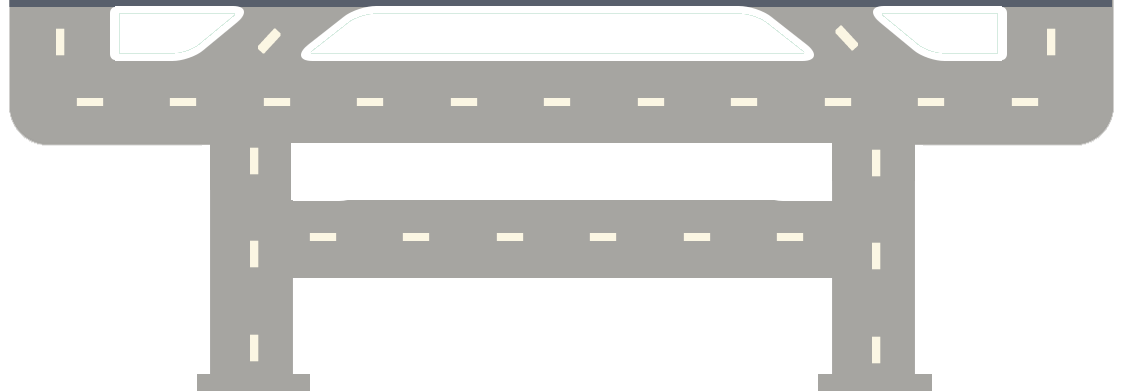
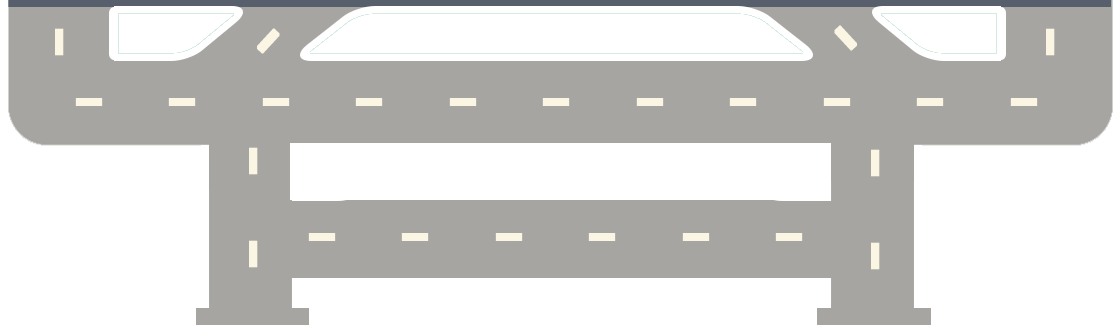
changed coord for texture

diff --git a/src/scenes/mainScene.ts b/src/scenes/mainScene.ts
@@ -23,18 +23,18 @@ export class MainScene extends Phaser.Scene {
     preload(): void {
         RunwayStrip.preload(this, 'runaway_strip');
         AirplaneStation.preload(this, 'airplane_station');
-        Roads.preload(this, 'roads');
         Terminal.preload(this, 'terminal');
         BusStation.preload(this, 'bus_station');
+        Roads.preload(this, 'roads');
 
     }
 
     create(): void {
         RunwayStrip.setPosition(this, 'runaway_strip');
         AirplaneStation.setPosition(this, 'airplane_station');
-        Roads.setPosition(this, 'roads');
         BusStation.setPosition(this, 'bus_station');
         Terminal.setPosition(this, 'terminal');
+        Roads.setPosition(this, 'roads');
     }
 
      changePositionRect(x: number, y: number) {

diff --git a/src/entities/runwayStrip.ts b/src/entities/runwayStrip.ts
@@ -11,7 +11,7 @@ export class RunwayStrip {
     public static setPosition(context: Phaser.Scene, key: string) {
         this.runawayStripObject = context.add.image(0, 0, key);
         this.runawayStripObject.setScale(0.7, 0.7);
-        this.runawayStripObject.setY(200);
+        this.runawayStripObject.setY(210.5);
         this.runawayStripObject.setX(this.runawayStripObject.width / 3);
 
     }

diff --git a/src/entities/roads.ts b/src/entities/roads.ts
@@ -11,8 +11,8 @@ export class Roads {
     public static setPosition(context: Phaser.Scene, key: string) {
         this.roadsObject = context.add.image(0, 0, key);
         this.roadsObject.setScale(0.7, 0.7);
-        this.roadsObject.setY(440);
-        this.roadsObject.setX(461);
+        this.roadsObject.setY(427.5);
+        this.roadsObject.setX(461.5);
 
     }
 }
